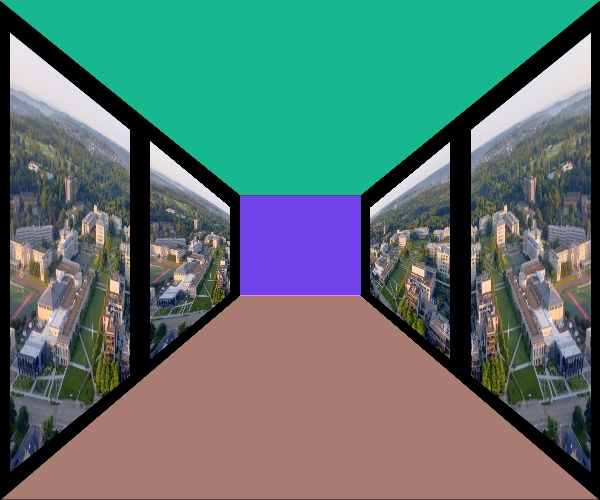
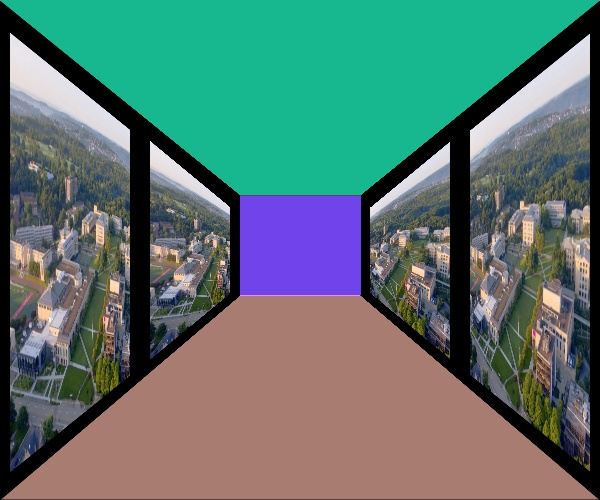
images

Changed region(s): [[0.78, 0.15, 0.99, 0.96]]

diff --git a/main.py b/main.py
@@ -5,6 +5,8 @@ from tkinter import *
 from PIL import Image, ImageTk
 from tkinter import filedialog
 from gallery import *
+import cv2
+import numpy as np
 
 class person(object):
     def __init__(self, x, y):
@@ -71,6 +73,24 @@ def get_image():
     return file_path
 
 
+def center_crop(image, name, fixed_height = 500, crop_width = 600):
+        image = cv2.imread(image)
+
+        # Calculate the scaling factor to resize the image
+        scale_factor = fixed_height / image.shape[0]
+
+        # Resize the image
+        resized_image = cv2.resize(image, (int(image.shape[1] * scale_factor), fixed_height))
+
+        # Calculate the center coordinates for cropping
+        crop_height = fixed_height
+        crop_x = int((resized_image.shape[1] - crop_width) / 2)
+        crop_y = int((resized_image.shape[0] - crop_height) / 2)
+
+        # Perform the center crop
+        cropped_image = resized_image[crop_y:crop_y + crop_height, crop_x:crop_x + crop_width]
+        cv2.imwrite(name, cropped_image)
+
 
 def appStarted(app):
     app.state = "MENU"
@@ -81,10 +101,15 @@ def appStarted(app):
     app.nearLibrary = False
     app.portfolioDone = False
 
-    app.image1 = ''
-    app.image2 = ''
-    app.image3 = ''
-    app.image4 = ''
+    app.image1 = 'images/cmu.jpeg'
+    app.image2 = 'images/cmu.jpeg'
+    app.image3 = 'images/cmu.jpeg'
+    app.image4 = 'images/cmu.jpeg'
+
+    app.image1clicked = False
+    app.image2clicked = False
+    app.image3clicked = False
+    app.image4clicked = False
 
     # image1 = Image.open("default.jpg")
     # test = ImageTk.PhotoImage(image1)
@@ -220,7 +245,6 @@ def redrawAll(app, canvas):
     elif app.state == "VIEW-GALLERY":
 
         
-
         canvas.create_rectangle(177, 107, 782, 612, fill='#AFA2FF', outline='#7043EB', width=5)
         # back to menu
         canvas.create_rectangle(20, 20, 120, 60, fill='#7043EB', outline='#7043EB')
@@ -231,6 +255,17 @@ def redrawAll(app, canvas):
                                font="Helvetica 30")
         
         canvas.create_image(180,110, image=app.img, anchor=NW)
+
+        if app.image1clicked:
+            canvas.create_rectangle(177, 107, 782, 612, fill='#AFA2FF', outline='#7043EB', width=5)
+            canvas.create_image(180,110, image=center_crop(app.image1, "image1"))
+            pass
+        elif  app.image2clicked:
+            pass
+        elif app.image3clicked:
+            pass
+        elif app.image4clicked:
+            pass
 
 
 
@@ -251,11 +286,6 @@ def redrawAll(app, canvas):
         pass
 
 
-    
-    # canvas.pack()
-    # img = ImageTk.PhotoImage(Image.open("images/brownie-pixelart-2.png"))
-    # canvas.create_image(20, 20, anchor=NW, image=img)
-
 
 
 def mousePressed(app, event):
@@ -267,10 +297,26 @@ def mousePressed(app, event):
         # create button
         if event.x >= 400 and event.x <= 560 and event.y >= 420 and event.y <= 500:
             app.state = "CREATE"
-    elif app.state == "VIEW-OUTSIDE" or app.state == "VIEW-LIBRARY" or app.state == "VIEW-GALLERY":
+    elif app.state == "VIEW-OUTSIDE":
         # back to menu
         if event.x >= 20 and event.x <= 120 and event.y >= 20 and event.y <= 60:
             app.state = "MENU"
+    elif app.state == "VIEW-LIBRARY":
+        # back to menu
+        if event.x >= 20 and event.x <= 120 and event.y >= 20 and event.y <= 60:
+            app.state = "MENU"
+    elif app.state == "VIEW-GALLERY":
+        # back to menu
+        if event.x >= 20 and event.x <= 120 and event.y >= 20 and event.y <= 60:
+            app.state = "MENU"
+        elif event.x >= 190 and event.x <= 310 and event.y >= 240 and event.y <= 485:
+            app.image1clicked = True
+        elif event.x >= 330 and event.x <= 410 and event.y >= 317 and event.y <= 403:
+            app.image2clicked = True
+        elif event.x >= 550 and event.x <= 630 and event.y >= 251 and event.y <= 469:
+            app.image3clicked = True
+        elif event.x >= 650 and event.x <= 770 and event.y >= 240 and event.y <= 485:
+            app.image3clicked = True
     elif app.state == "CREATE":
         # back to menu
         if event.x >= 20 and event.x <= 120 and event.y >= 20 and event.y <= 60:

diff --git a/gallery.py b/gallery.py
@@ -106,7 +106,7 @@ class Gallery:
         output = self.change_perspective(background, user_image1, 10, 33, 130, 130, 10, 472, 130, 375) 
         output = self.change_perspective(output, user_image2, 150, 141, 230, 207, 150, 359, 230, 293)
         output = self.change_perspective(output, user_image3, 370, 207, 450, 141, 370, 293, 450, 359)
-        output = self.change_perspective(output, user_image4, 590, 33, 470, 130, 590, 472, 470, 375)
+        output = self.change_perspective(output, user_image4, 470, 130, 590, 33, 470, 375, 590, 472)
         output = self.paint_backwall(output, 240, 195, 360, 295, color = self.backwall_color) # backwall
         output = self.paint_roof_floor(output, 0, 0, 600, 0, 240, 195, 360, 195, color = self.roof_color) # roof
         output = self.paint_roof_floor(output, 240, 295, 360, 295, 0, 500, 600, 500, color = self.floor_color) # floor
